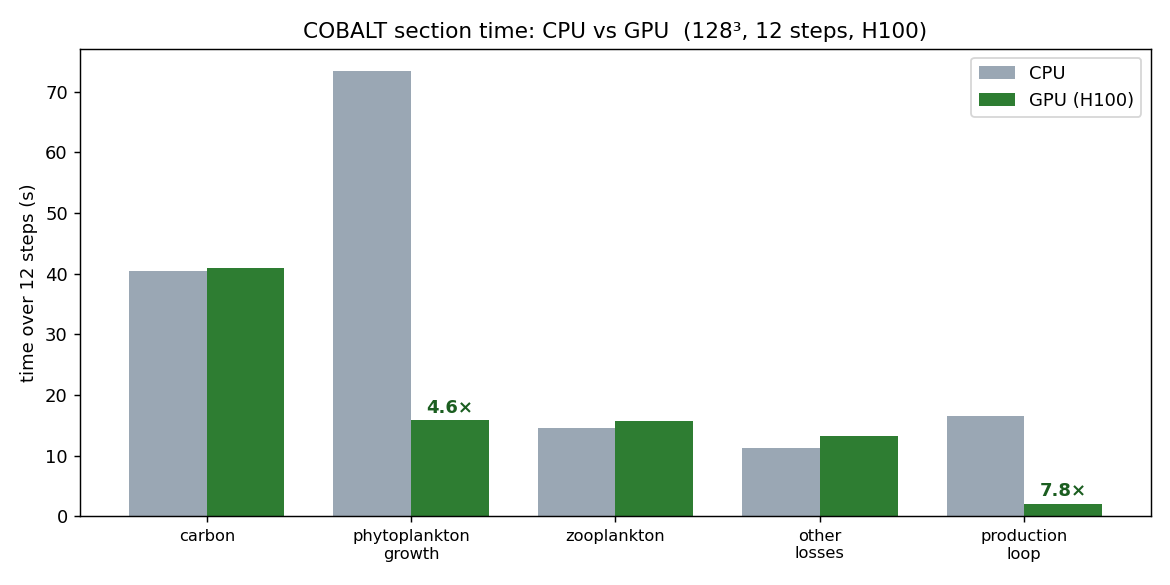
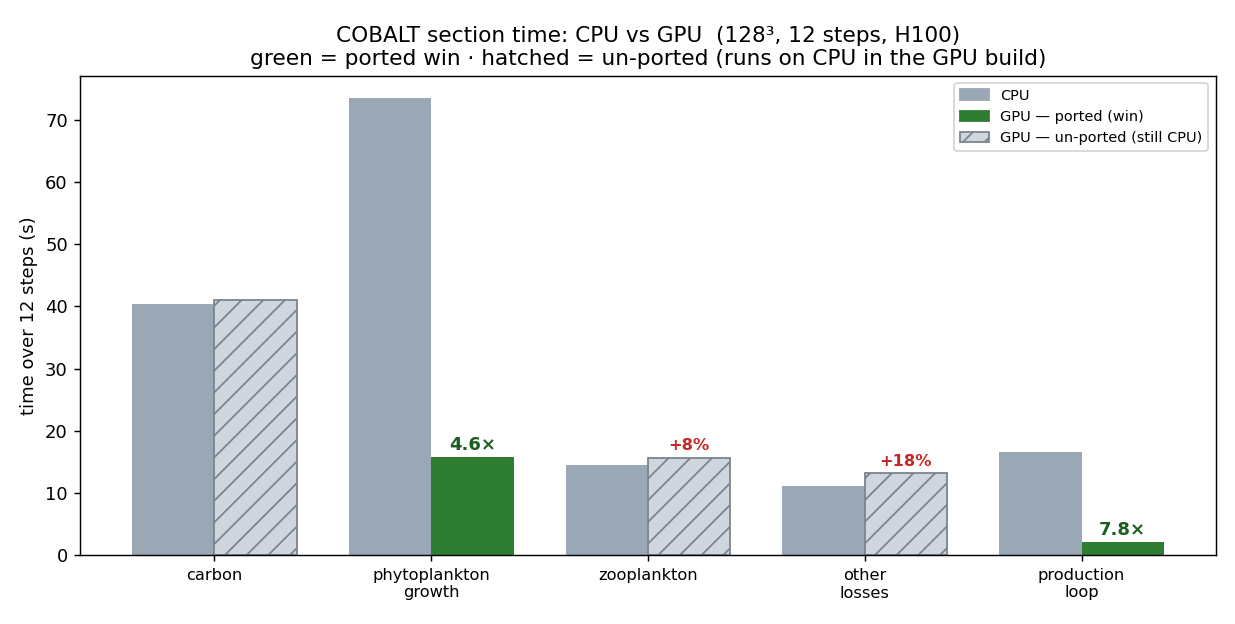
make_figs.py: distinguish ported vs un-ported bars + auto attention report
(a) fig_speed now colors ported sections solid green (with speedup label)
and un-ported sections hatched grey "still CPU" (slowdowns >noise flagged in
red) — so a reviewer can't misread an un-ported section's GPU-build drift as
"the GPU made it slower." Legend + title spell out the coding.

Review discipline (institutionalized): make_figs.py now emits figs/ATTENTION.txt
after every port — auto-flags (1) un-ported sections slower than CPU by >5% on
the GPU build, and (2) GPU kernels with SM-SOL < 35% (tuning candidates). So
each new porting self-reports which parts need a closer look; we don't eyeball.

§2 attention report: zoo +8% / losses +18% un-ported drift (watch as we port
the foodweb chain); A 10.6% / Geider 31.8% / E 15.2% under-utilized (known
structural limits from §1.2b backlog). Production itself is healthy (54.5%).

PORTED_SECTIONS / NOISE_PCT / LOW_SOL_PCT are config at the top — bump
PORTED_SECTIONS by one entry per future port.

Changed region(s): [[0.0, 0.0308, 1.0, 0.9846], [0.3385, 0.6769, 0.4308, 0.7385], [0.8, 0.7077, 0.8923, 0.7385]]

diff --git a/profiling/make_figs.py b/profiling/make_figs.py
@@ -29,6 +29,12 @@ SECTION_MAP = {
     "F1L3956": "§1.3Fe", "F1L3978": "§1.3Si", "F1L4707": "production",
 }
 HIGHLIGHT = "production"          # the kernel this PR adds
+# Which mpp_clock sections are ON GPU so far (grows by one PR each port).
+# Un-ported sections still run on CPU in the GPU build -> expected flat/slower, NOT a win.
+PORTED_SECTIONS = {"phytoplankton growth", "production loop"}
+# Attention thresholds (the review discipline: every port flags what needs work)
+NOISE_PCT   = 5.0    # un-ported section slower than CPU by > this % on the GPU build -> flag
+LOW_SOL_PCT = 35.0   # kernel SM-SOL below this -> under-utilized, flag for tuning
 # H100 NVL roofs (FP64 vector peak, HBM3 BW) — for the roofline ceilings
 H100_FP64_GFLOPS = 34_000.0
 H100_HBM_GBs     = 3_900.0
@@ -97,17 +103,28 @@ def parse_speed(path):
 def fig_speed(speed, outdir):
     labels = list(speed.keys()); cpu = [speed[k][0] for k in labels]; gpu = [speed[k][1] for k in labels]
     x = range(len(labels)); w = 0.38
-    fig, ax = plt.subplots(figsize=(9, 4.5))
-    b1 = ax.bar([i-w/2 for i in x], cpu, w, label="CPU", color="#9aa7b4")
-    b2 = ax.bar([i+w/2 for i in x], gpu, w, label="GPU (H100)", color="#2e7d32")
+    fig, ax = plt.subplots(figsize=(9.5, 4.8))
+    ax.bar([i-w/2 for i in x], cpu, w, label="CPU", color="#9aa7b4")
+    # ported sections = solid green (a real GPU win); un-ported = hatched grey (still CPU, context only)
     for i, k in enumerate(labels):
-        sp = cpu[i]/gpu[i] if gpu[i] else 0
-        if "production" in k or "growth" in k:
-            ax.annotate(f"{sp:.1f}×", (i+w/2, gpu[i]), textcoords="offset points",
+        ported = k in PORTED_SECTIONS
+        ax.bar(i+w/2, gpu[i], w, color="#2e7d32" if ported else "#cfd6dd",
+               hatch=None if ported else "//", edgecolor="#7a8590" if not ported else None)
+        r = gpu[i]/cpu[i] if cpu[i] else 1
+        if ported:
+            ax.annotate(f"{cpu[i]/gpu[i]:.1f}×", (i+w/2, gpu[i]), textcoords="offset points",
                         xytext=(0, 4), ha="center", fontsize=10, fontweight="bold", color="#1b5e20")
+        elif r > 1 + NOISE_PCT/100.0:   # un-ported AND slower than noise -> flag in red
+            ax.annotate(f"+{(r-1)*100:.0f}%", (i+w/2, gpu[i]), textcoords="offset points",
+                        xytext=(0, 4), ha="center", fontsize=9, fontweight="bold", color="#c62828")
+    from matplotlib.patches import Patch
+    leg = [Patch(color="#9aa7b4", label="CPU"), Patch(color="#2e7d32", label="GPU — ported (win)"),
+           Patch(facecolor="#cfd6dd", hatch="//", edgecolor="#7a8590", label="GPU — un-ported (still CPU)")]
+    ax.legend(handles=leg, fontsize=8)
     ax.set_xticks(list(x)); ax.set_xticklabels([k.replace(" ", "\n") for k in labels], fontsize=9)
-    ax.set_ylabel("time over 12 steps (s)"); ax.set_title("COBALT section time: CPU vs GPU  (128³, 12 steps, H100)")
-    ax.legend(); fig.tight_layout()
+    ax.set_ylabel("time over 12 steps (s)")
+    ax.set_title("COBALT section time: CPU vs GPU  (128³, 12 steps, H100)\ngreen = ported win · hatched = un-ported (runs on CPU in the GPU build)")
+    fig.tight_layout()
     p = os.path.join(outdir, "fig_speed_beforeafter.png"); fig.savefig(p, dpi=130); plt.close(fig); return p
 
 def fig_sol(det, outdir):
@@ -143,6 +160,35 @@ def fig_roofline(roof, det, outdir):
     ax.grid(True, which="both", ls=":", alpha=0.4); fig.tight_layout()
     p = os.path.join(outdir, "fig_roofline.png"); fig.savefig(p, dpi=130); plt.close(fig); return p
 
+def attention_report(speed, det, outdir):
+    """The review discipline: after every port, auto-flag what needs attention so we don't have to
+    eyeball the figures. Writes figs/ATTENTION.txt and prints. Two checks:
+      (1) un-ported sections that got SLOWER on the GPU build by > noise (GPU-build CPU-section drift);
+      (2) GPU kernels with SM-SOL below LOW_SOL_PCT (under-utilized -> tuning candidates)."""
+    lines = ["# Attention report — what needs a closer look after this port", ""]
+    lines.append("## Un-ported sections slower on the GPU build (still CPU; watch as we port more)")
+    any1 = False
+    for k, (c, g) in speed.items():
+        if k in PORTED_SECTIONS:
+            lines.append(f"  - {k:24s} {c/g:5.2f}× FASTER  (ported ✓)"); continue
+        pct = (g/c - 1)*100 if c else 0
+        if pct > NOISE_PCT:
+            lines.append(f"  - {k:24s} +{pct:4.0f}% SLOWER on GPU build  ⚠ (un-ported, above {NOISE_PCT:.0f}% noise)"); any1 = True
+        else:
+            lines.append(f"  - {k:24s} {pct:+5.0f}% (within noise)")
+    if not any1: lines.append("  (none above noise)")
+    lines += ["", "## Under-utilized GPU kernels (SM-SOL < %.0f%% -> tuning candidates)" % LOW_SOL_PCT]
+    any2 = False
+    for t in SECTION_MAP.values():
+        if t in det:
+            sol = det[t].get("Compute (SM) Throughput", 0)
+            if sol < LOW_SOL_PCT:
+                lines.append(f"  - {t:10s} SM-SOL {sol:5.1f}%  ⚠"); any2 = True
+    if not any2: lines.append("  (all ported kernels above threshold)")
+    txt = "\n".join(lines) + "\n"
+    open(os.path.join(outdir, "ATTENTION.txt"), "w").write(txt)
+    print("\n" + txt)
+
 def main():
     base = sys.argv[1] if len(sys.argv) > 1 else os.path.join(os.path.dirname(os.path.abspath(__file__)), "s2_production")
     outdir = os.path.join(base, "figs"); os.makedirs(outdir, exist_ok=True)
@@ -155,6 +201,7 @@ def main():
     if det:   made.append(fig_sol(det, outdir))
     if roof:  made.append(fig_roofline(roof, det, outdir))
     for m in made: print(f"  wrote {m}")
+    if speed or det: attention_report(speed, det, outdir)
     print(f"  DONE — {len(made)} figures in {outdir}")
 
 if __name__ == "__main__":
